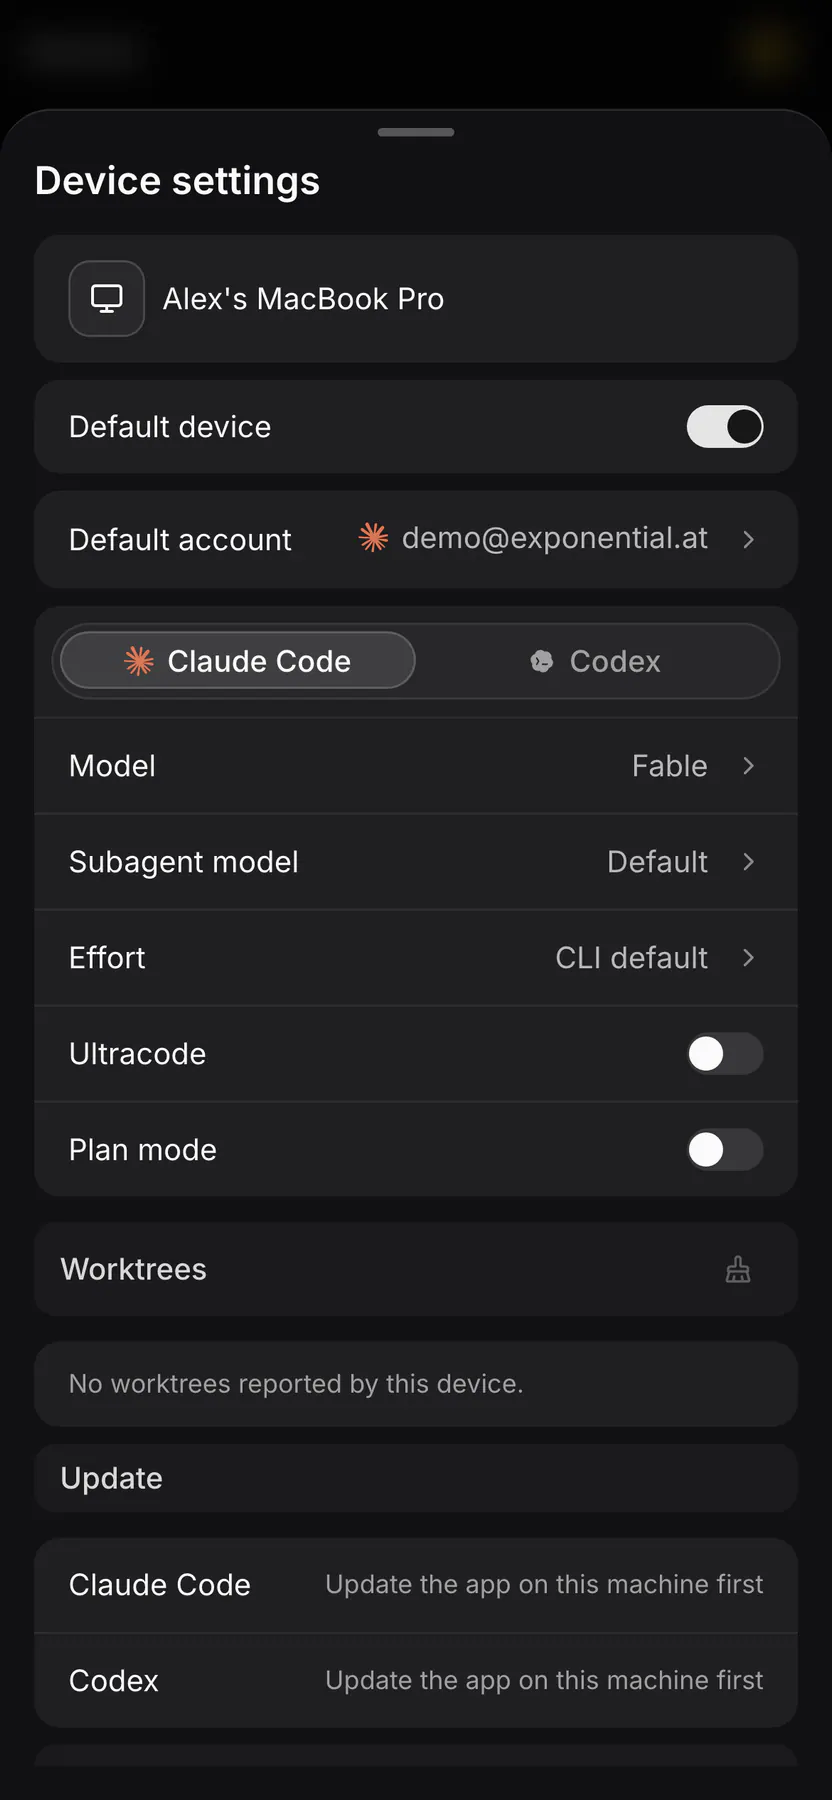
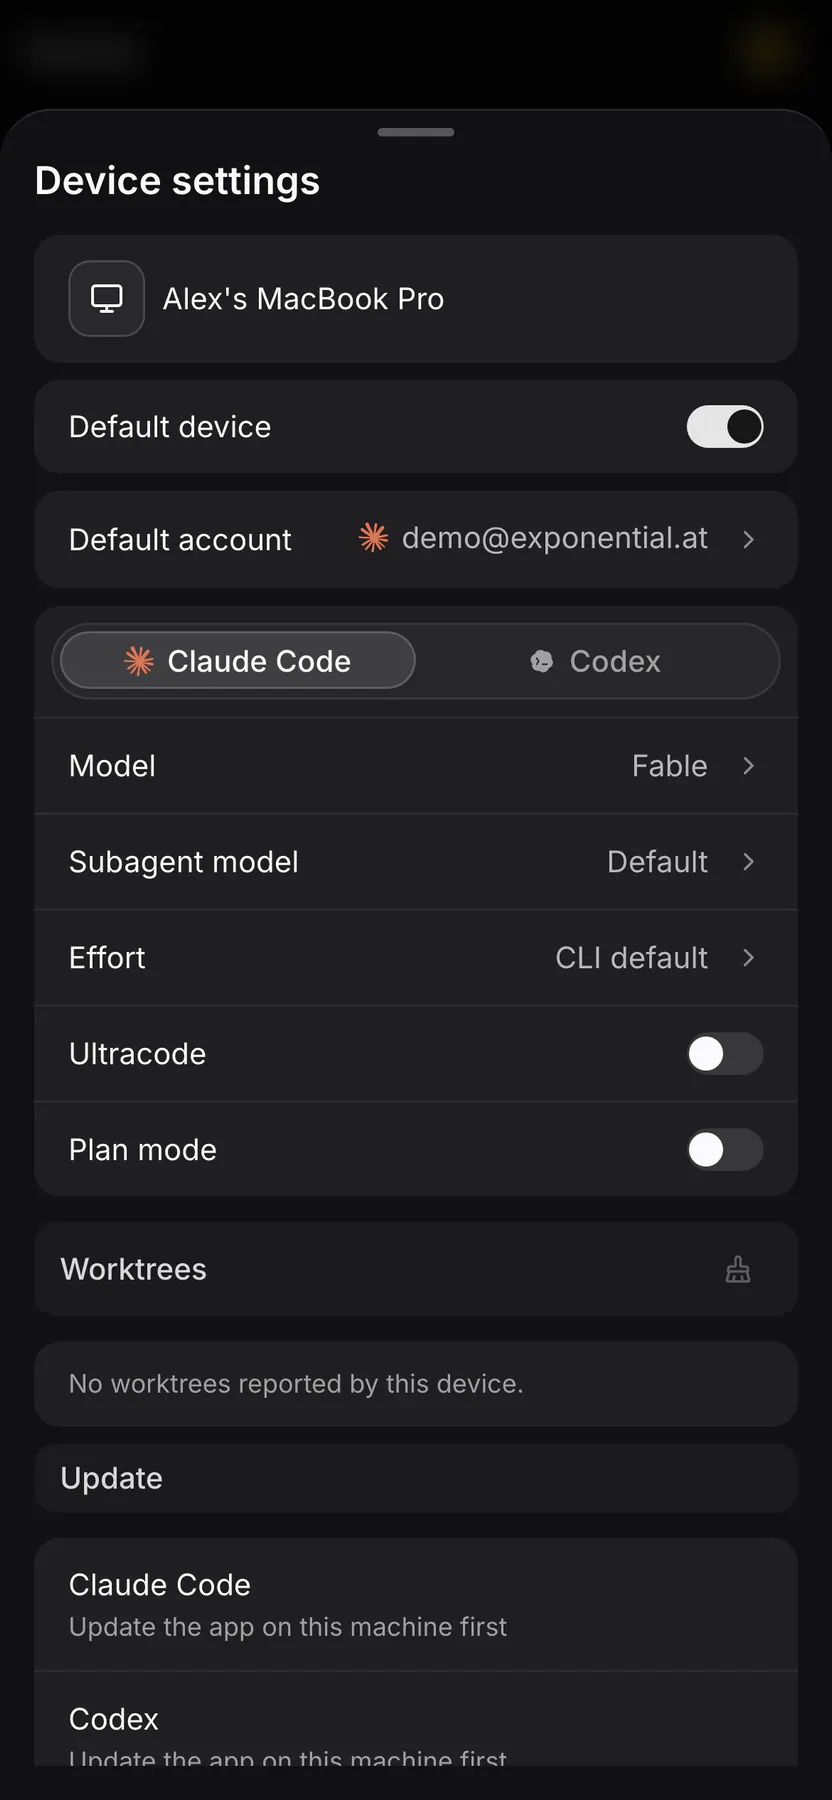
Device settings: the agent Update hint sits under the label, never beside it
A version-less login row put "Update the app on this machine first" in a
shrink-0 trailing slot, so the web dialog truncated the agent's name to
"Claude ..." at its column width. The hint is now the row's note line on
the web and in the IDE (the IDE also drops its "(version unknown)"
suffix, matching the web). machine-settings retaken on web, web-mobile
and desktop.

diff --git a/apps/web/src/components/device-settings-dialog.tsx b/apps/web/src/components/device-settings-dialog.tsx
@@ -1197,20 +1197,24 @@ export function DeviceSettingsDialog({
                                 </>
                               )}
                             </Button>
-                          ) : (
-                            <span className="shrink-0 text-xs text-muted-foreground">
-                              Update the app on this machine first
-                            </span>
-                          )}
+                          ) : null}
                         </div>
                         {sectionErrors[key] ? (
                           <p className="text-xs text-destructive">
                             {sectionErrors[key]}
                           </p>
+                        ) : sectionNotes[key] ? (
+                          <p className="text-xs text-muted-foreground">
+                            {sectionNotes[key]}
+                          </p>
                         ) : (
-                          sectionNotes[key] && (
+                          // No reported version = a daemon that cannot run
+                          // `agent_update` yet. The hint sits UNDER the label
+                          // (like a note) so the agent's name never truncates
+                          // beside a sentence-long trailing slot.
+                          !agentVersion && (
                             <p className="text-xs text-muted-foreground">
-                              {sectionNotes[key]}
+                              Update the app on this machine first
                             </p>
                           )
                         )}

diff --git a/apps/desktop/crates/ui/src/device_settings.rs b/apps/desktop/crates/ui/src/device_settings.rs
@@ -1926,7 +1926,7 @@ impl DeviceSettingsView {
                     div().w_full().min_w_0().truncate().text_sm().child(SharedString::from(
                         match version.as_deref() {
                             Some(version) => format!("{} v{version}", agent.label()),
-                            None => format!("{} (version unknown)", agent.label()),
+                            None => agent.label().to_string(),
                         },
                     )),
                 ),
@@ -1952,18 +1952,22 @@ impl DeviceSettingsView {
                             this.queue_agent_update(agent, cx);
                         })),
                 );
-            } else {
-                agent_row = agent_row.child(
-                    div()
-                        .flex_shrink_0()
-                        .text_xs()
-                        .text_color(muted)
-                        .child("Update the app on this machine first"),
-                );
             }
+            // No reported version = a daemon that cannot run `agent_update`
+            // yet. The hint sits UNDER the label (like a note), never beside
+            // it: a sentence-long trailing slot truncated the agent's name on
+            // the web twin at its narrower column.
             let under = self
                 .error_line(&key, cx)
-                .or_else(|| self.note_line(&key, cx));
+                .or_else(|| self.note_line(&key, cx))
+                .or_else(|| {
+                    version.is_none().then(|| {
+                        div()
+                            .text_xs()
+                            .text_color(muted)
+                            .child("Update the app on this machine first")
+                    })
+                });
             match under {
                 Some(line) => agent_rows.push(
                     v_flex()
